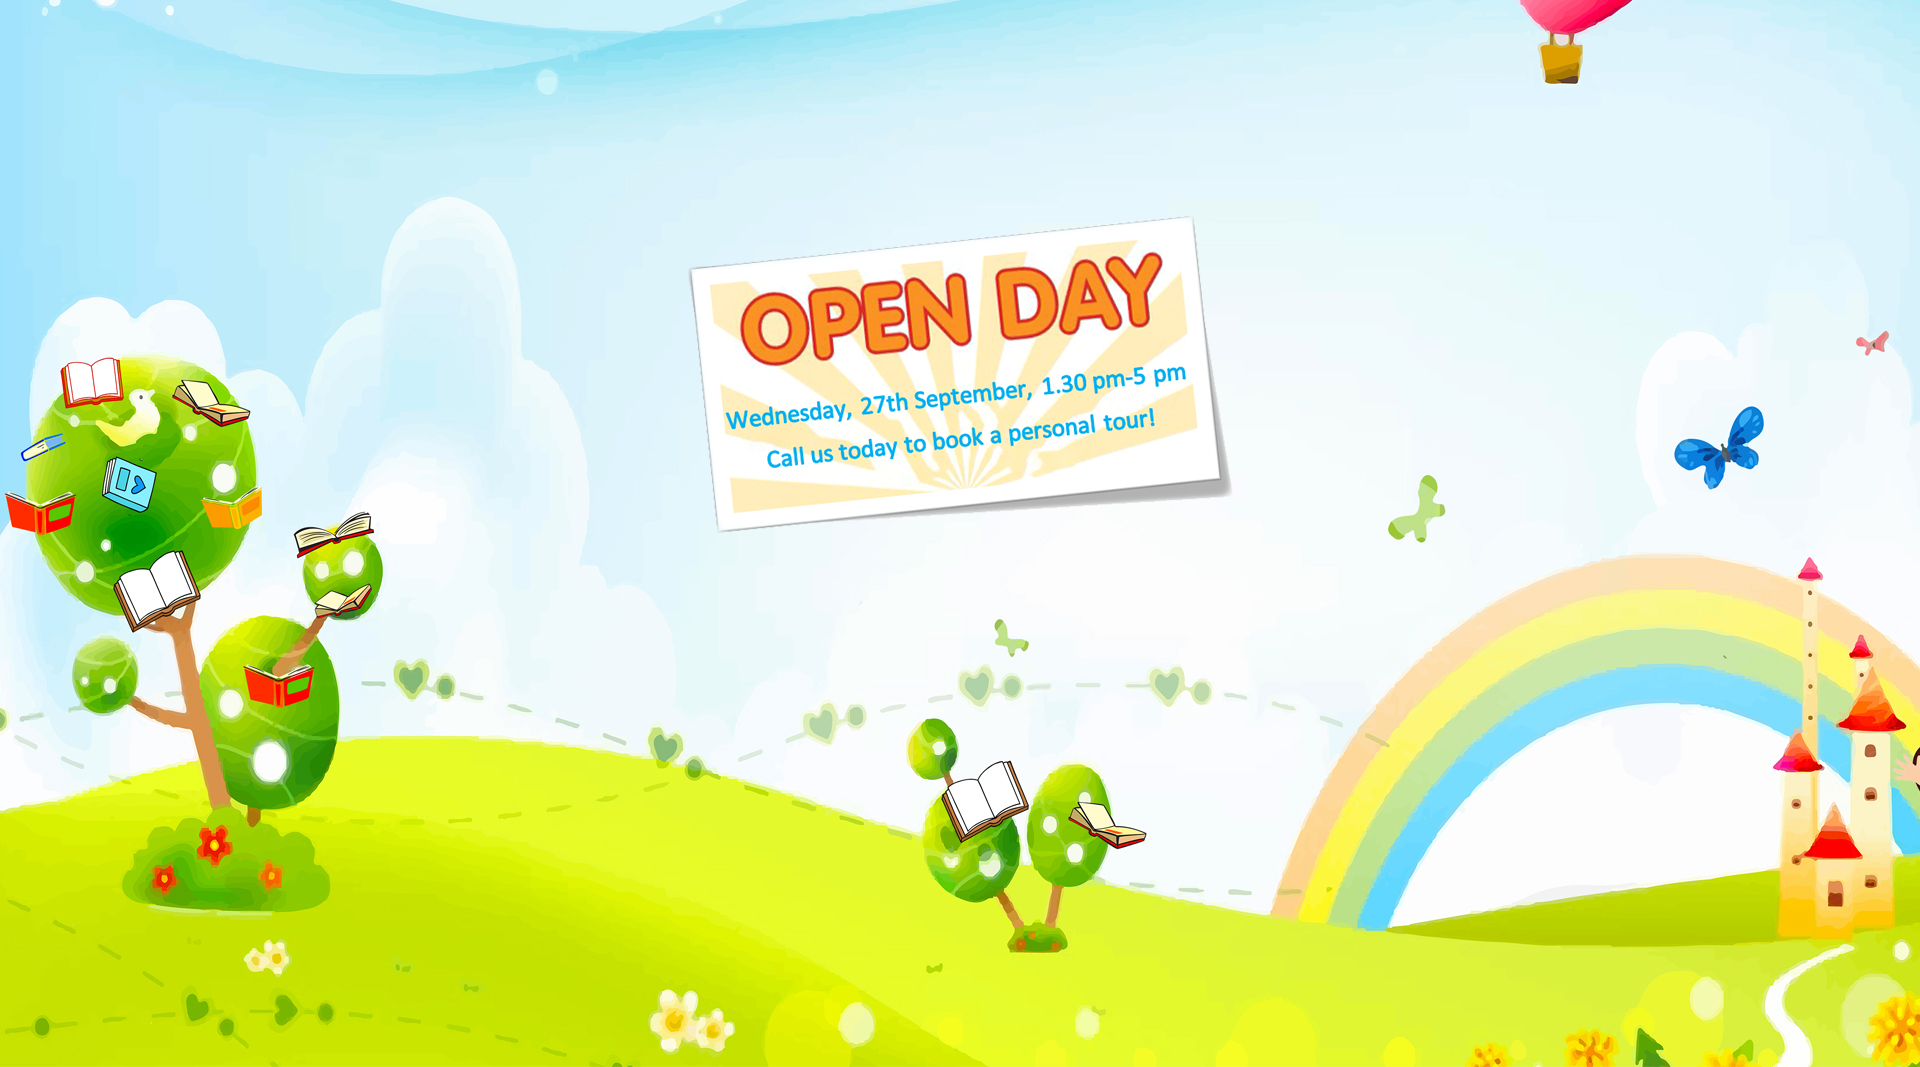
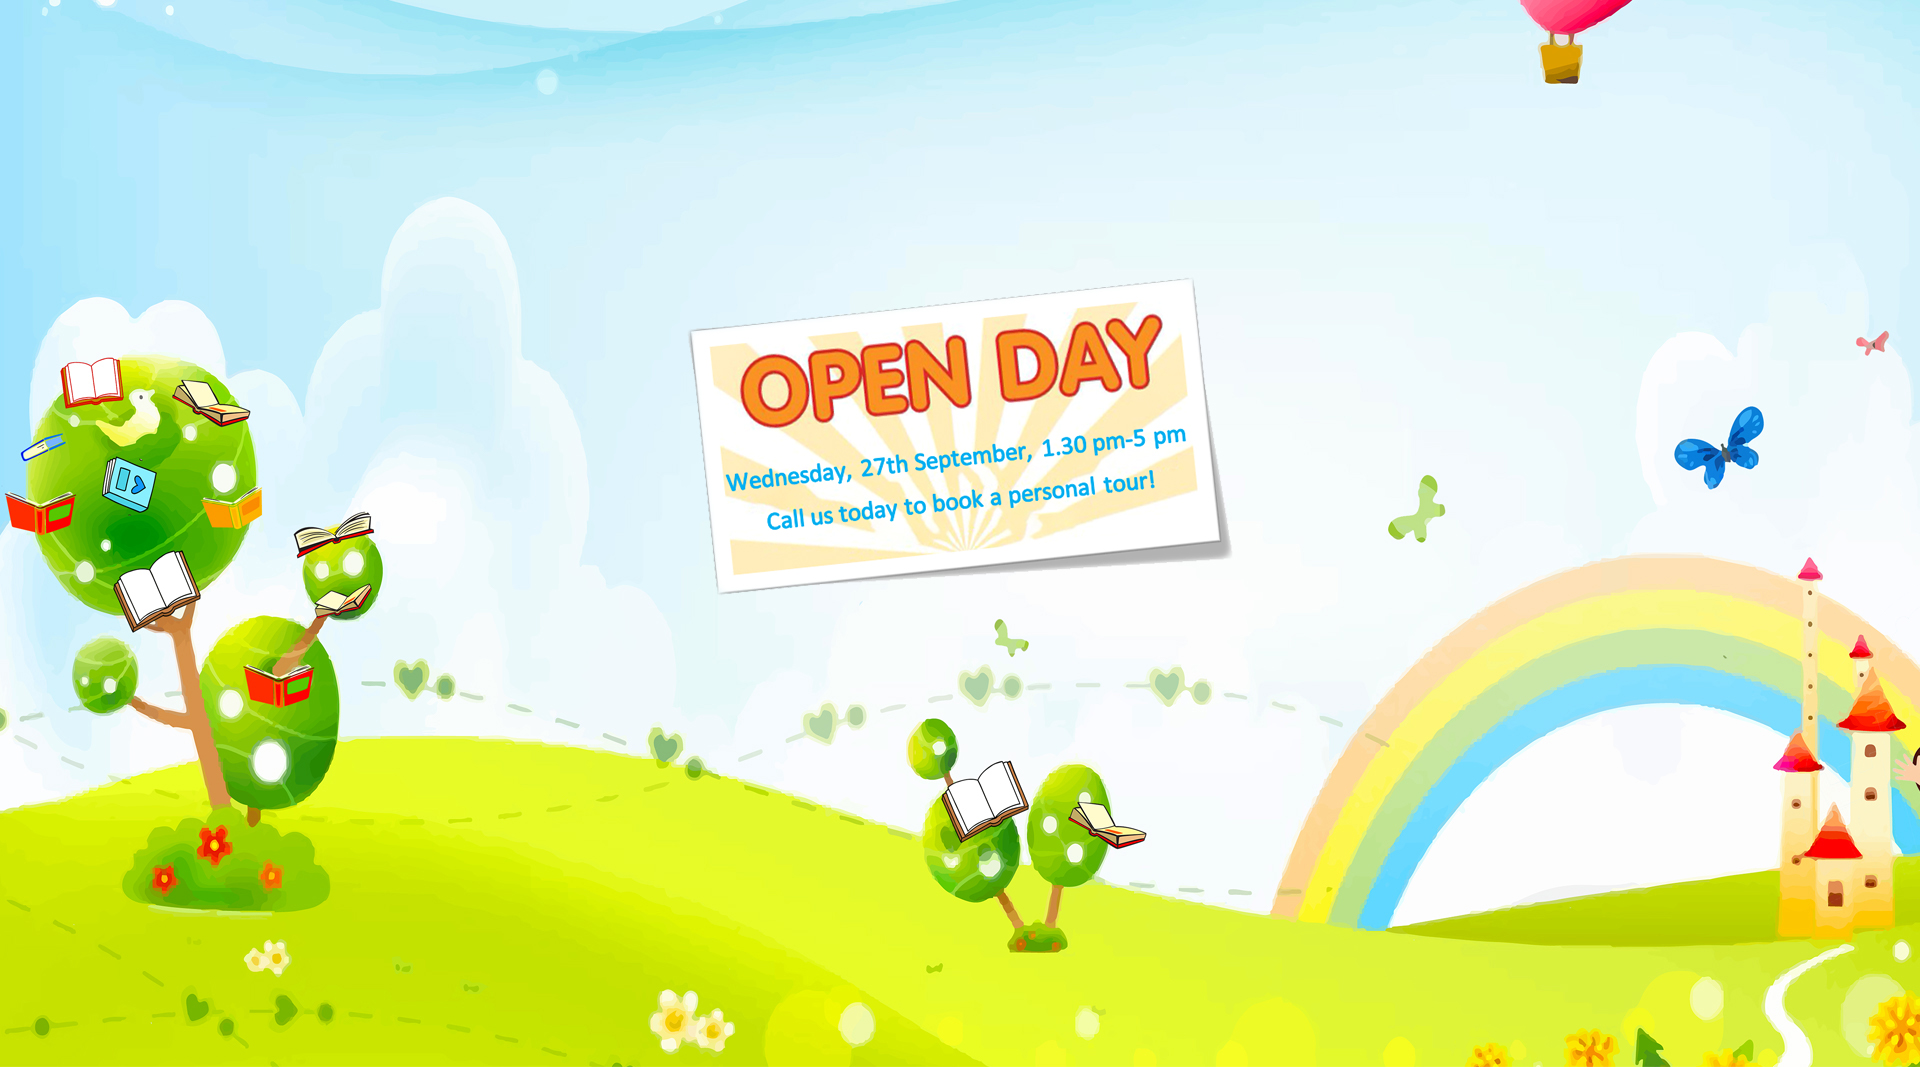
bb

Changed region(s): [[0.3438, 0.2165, 0.6562, 0.5567]]

diff --git a/styles/main_styles.css b/styles/main_styles.css
@@ -681,16 +681,17 @@ section
 }
 .hero_slide_content
 {
-	max-width: 80%;
-	-webkit-transform: translateY(30px);
-	-moz-transform: translateY(30px);
-	-ms-transform: translateY(30px);
-	-o-transform: translateY(30px);
-	transform: translateY(30px);
+	max-width: 60%;
+	-webkit-transform: translateY(70px);
+	-moz-transform: translateY(70px);
+	-ms-transform: translateY(70px);
+	-o-transform: translateY(70px);
+	transform: translateY(70px);
 }
 .hero_slide_content h1
 {
-	font-size: 50px;
+	margin-top: 20px;
+	font-size: 45px;
 	font-weight: 400;
 	color: #000000;
 }
